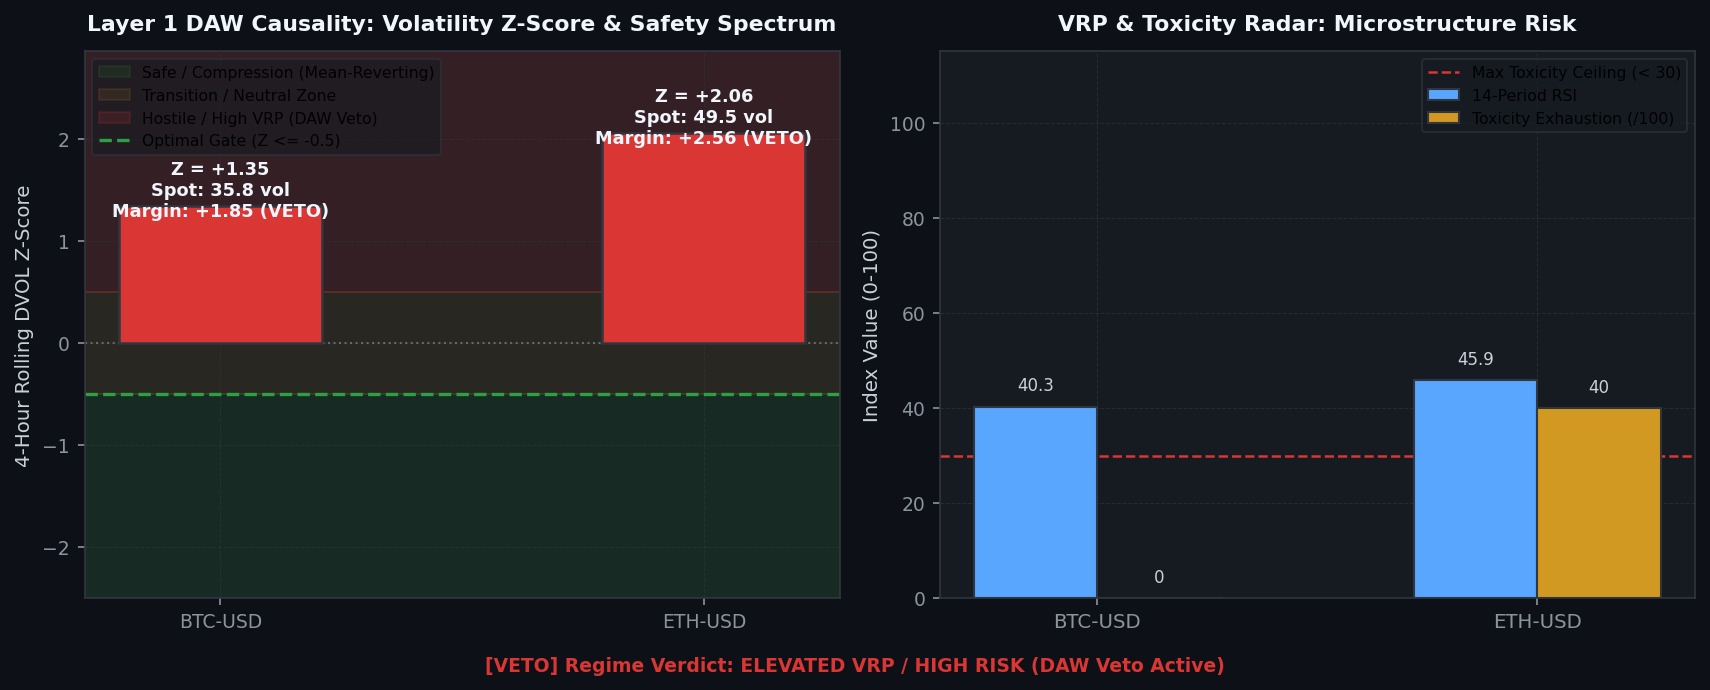
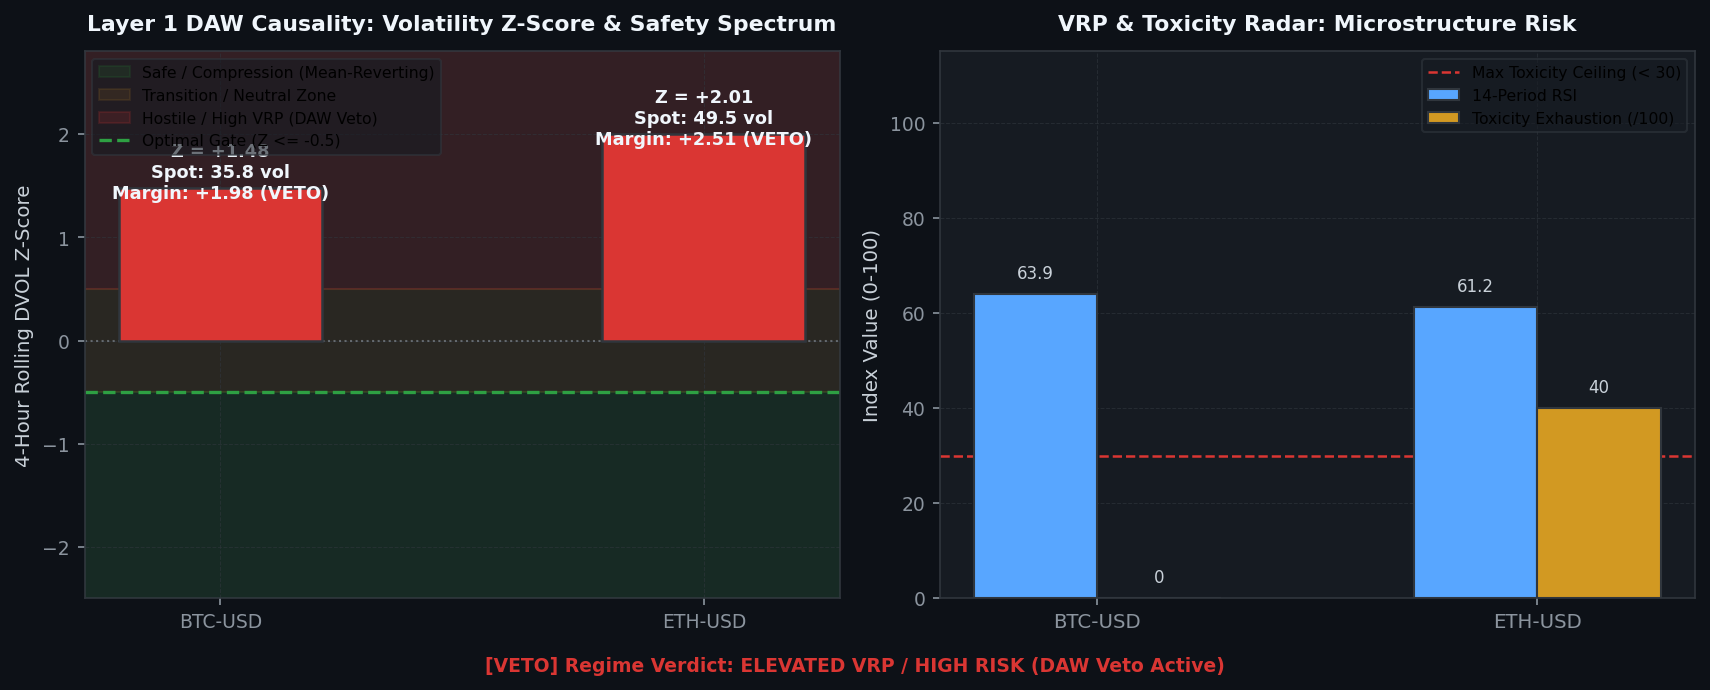
[coinbase] Hourly Status & Visual Intelligence Update: 2026-10-04 07:34:55

diff --git a/coinbase/data/hourly_status_report.md b/coinbase/data/hourly_status_report.md
@@ -3,7 +3,7 @@ layout: default
 ---
 
 # 🛡 Unified Trading System Hourly Status & Visual Intelligence
-> **Report Generated**: `2026-10-04 07:17:26 AM PDT (2026-10-04 14:17:26 UTC)`  
+> **Report Generated**: `2026-10-04 07:34:37 AM PDT (2026-10-04 14:34:37 UTC)`  
 > **System Health**: **🟡 DEGRADED / RESTRICTED** | **Win Rate**: `0.0%` | **Completed Trades**: `0`
 
 
@@ -15,13 +15,13 @@ Real-time Deribit implied volatility (DVOL) proxy tracking against mathematicall
 
 | Symbol | Proxy Oracle | Live Z-Score | Optimal Limit (YSP) | Safety Margin | Live VRP | Optimal VRP (YSP) | DAW Safety Verdict |
 | :--- | :--- | :--- | :--- | :--- | :--- | :--- | :--- |
-| `BTC-USD` | DVOL_BTC | **+1.35** | **-0.50** | **+1.85** | **+22.91** | -1.0 | 🔴 DAW VETOED |
-| `ETH-USD` | DVOL_ETH | **+2.06** | **-0.50** | **+2.56** | **+39.13** | -1.0 | 🔴 DAW VETOED |
-| `SOL-USD` | DVOL_BTC | **+1.35** | **-0.50** | **+1.85** | **+22.89** | -1.0 | 🔴 DAW VETOED |
-| `DOGE-USD` | DVOL_BTC | **+1.35** | **-0.50** | **+1.85** | **+22.89** | -1.0 | 🔴 DAW VETOED |
-| `AVAX-USD` | DVOL_BTC | **+1.35** | **-0.50** | **+1.85** | **+22.91** | -1.0 | 🔴 DAW VETOED |
-| `LINK-USD` | DVOL_BTC | **+1.35** | **-0.50** | **+1.85** | **+22.91** | -1.0 | 🔴 DAW VETOED |
-| `XRP-USD` | DVOL_BTC | **+1.35** | **-0.50** | **+1.85** | **+22.89** | 5.0 | 🔴 DAW VETOED |
+| `BTC-USD` | DVOL_BTC | **+1.48** | **-0.50** | **+1.98** | **+22.91** | -1.0 | 🔴 DAW VETOED |
+| `ETH-USD` | DVOL_ETH | **+2.01** | **-0.50** | **+2.51** | **+39.13** | -1.0 | 🔴 DAW VETOED |
+| `SOL-USD` | DVOL_BTC | **+1.48** | **-0.50** | **+1.98** | **+22.89** | -1.0 | 🔴 DAW VETOED |
+| `DOGE-USD` | DVOL_BTC | **+1.48** | **-0.50** | **+1.98** | **+22.89** | -1.0 | 🔴 DAW VETOED |
+| `AVAX-USD` | DVOL_BTC | **+1.48** | **-0.50** | **+1.98** | **+22.91** | -1.0 | 🔴 DAW VETOED |
+| `LINK-USD` | DVOL_BTC | **+1.48** | **-0.50** | **+1.98** | **+22.91** | -1.0 | 🔴 DAW VETOED |
+| `XRP-USD` | DVOL_BTC | **+1.48** | **-0.50** | **+1.98** | **+22.89** | 5.0 | 🔴 DAW VETOED |
 
 
 
@@ -37,12 +37,12 @@ We hereby certify that the mission-critical algorithmic data assets uploaded by 
 
 | Status | Data Asset | Freshness / State | Details / Timestamp |
 | :---: | :--- | :--- | :--- |
-| ✅ | **Go-List JSON** | Fresh (150.11h old) | 09-28 01:11 |
-| ❌ | **TimesFM Forecasts** | STALE! (23.2h old) | Limit 9.0h |
-| ✅ | **Holding Times config** | Fresh (150.11h old) | 09-28 01:11 |
-| ✅ | **BTC DVOL Cache** | Fresh (0.01h old) | 10-04 07:17 |
-| ✅ | **ETH DVOL Cache** | Fresh (0.00h old) | 10-04 07:17 |
-| ❌ | **Live Causal Telemetry** | STALE! (451.6h old) | Limit 0.5h |
+| ✅ | **Go-List JSON** | Fresh (150.39h old) | 09-28 01:11 |
+| ❌ | **TimesFM Forecasts** | STALE! (23.5h old) | Limit 9.0h |
+| ✅ | **Holding Times config** | Fresh (150.39h old) | 09-28 01:11 |
+| ✅ | **BTC DVOL Cache** | Fresh (0.01h old) | 10-04 07:34 |
+| ✅ | **ETH DVOL Cache** | Fresh (0.01h old) | 10-04 07:34 |
+| ❌ | **Live Causal Telemetry** | STALE! (451.9h old) | Limit 0.5h |
 
 <br>
 
@@ -135,14 +135,14 @@ Live balance sheet and open maker liquidity positions from Coinbase CDP.
 ## 6. 🤖 Foundation Model MLOps & Pipeline Orchestration
 Weekly Algorithmic Mega Cap selection, Zero-shot multi-step forward return forecasts, and VSTEF parameter grid search status.
 
-- **TimesFM Forecast DB**: 🔴 Updated 23.2h ago (2026-10-03 08:03 AM PDT)
+- **TimesFM Forecast DB**: 🔴 Updated 23.5h ago (2026-10-03 08:03 AM PDT)
 - **Last Weekly VSTEF Optimization**: `2026-09-28 01:10:22 AM PDT`
-- **Next Scheduled VSTEF Run**: `2026-10-04 07:00:00 PM PDT (Monday 02:00 UTC)` (Countdown: **11.7h (0d 11h 42m)**)
+- **Next Scheduled VSTEF Run**: `2026-10-04 07:00:00 PM PDT (Monday 02:00 UTC)` (Countdown: **11.4h (0d 11h 25m)**)
 - **Promoted Parameter Gates**: $Z_{DVOL} \le -0.5$ | Holding Horizon $= 12\text{h}$
 
 ### Algorithmic Mega Cap Selection
 - **Last Run (Confirmation)**: `2026-09-28 01:11:12 AM PDT`
-- **Next Scheduled Run**: `2026-10-04 06:00:00 PM PDT (Monday 01:00 UTC)` (Countdown: **10.7h (0d 10h 42m)**)
+- **Next Scheduled Run**: `2026-10-04 06:00:00 PM PDT (Monday 01:00 UTC)` (Countdown: **10.4h (0d 10h 25m)**)
 - **Selected Mega Cap Universe**: `BTC, ETH, SOL, DOGE, AVAX, LINK, XRP`
 
 
@@ -158,7 +158,7 @@ Visualizing the impact of the VSTEF (Volatility-Synchronized Stop-Tightening Exe
 ================================================================================
    🛡  CAUSAL HFT GUARDIAN WATCHDOG v7.0.0 (CANARY ACTIVE)
 ================================================================================
-2454565  1-18:41:27  0.0  0.0 /opt/hft_trader/venv/bin/python -u guardian_causal.py
+2454565  1-18:58:38  0.0  0.0 /opt/hft_trader/venv/bin/python -u guardian_causal.py
 ```
 
 ---

diff --git a/coinbase/data/visual_intelligence.md b/coinbase/data/visual_intelligence.md
@@ -4,7 +4,7 @@ title: Visual Intelligence Gallery
 ---
 
 # 📈 Visual Intelligence Gallery
-> **Generated:** `2026-10-04 07:17:44`
+> **Generated:** `2026-10-04 07:34:55`
 > **[Return to Main Status Report](./hourly_status_report.md)**
 
 This page visualizes the internal states, market profiles, and decision criteria of the active **3-Tier Fused Decision Engine** across all layers.
